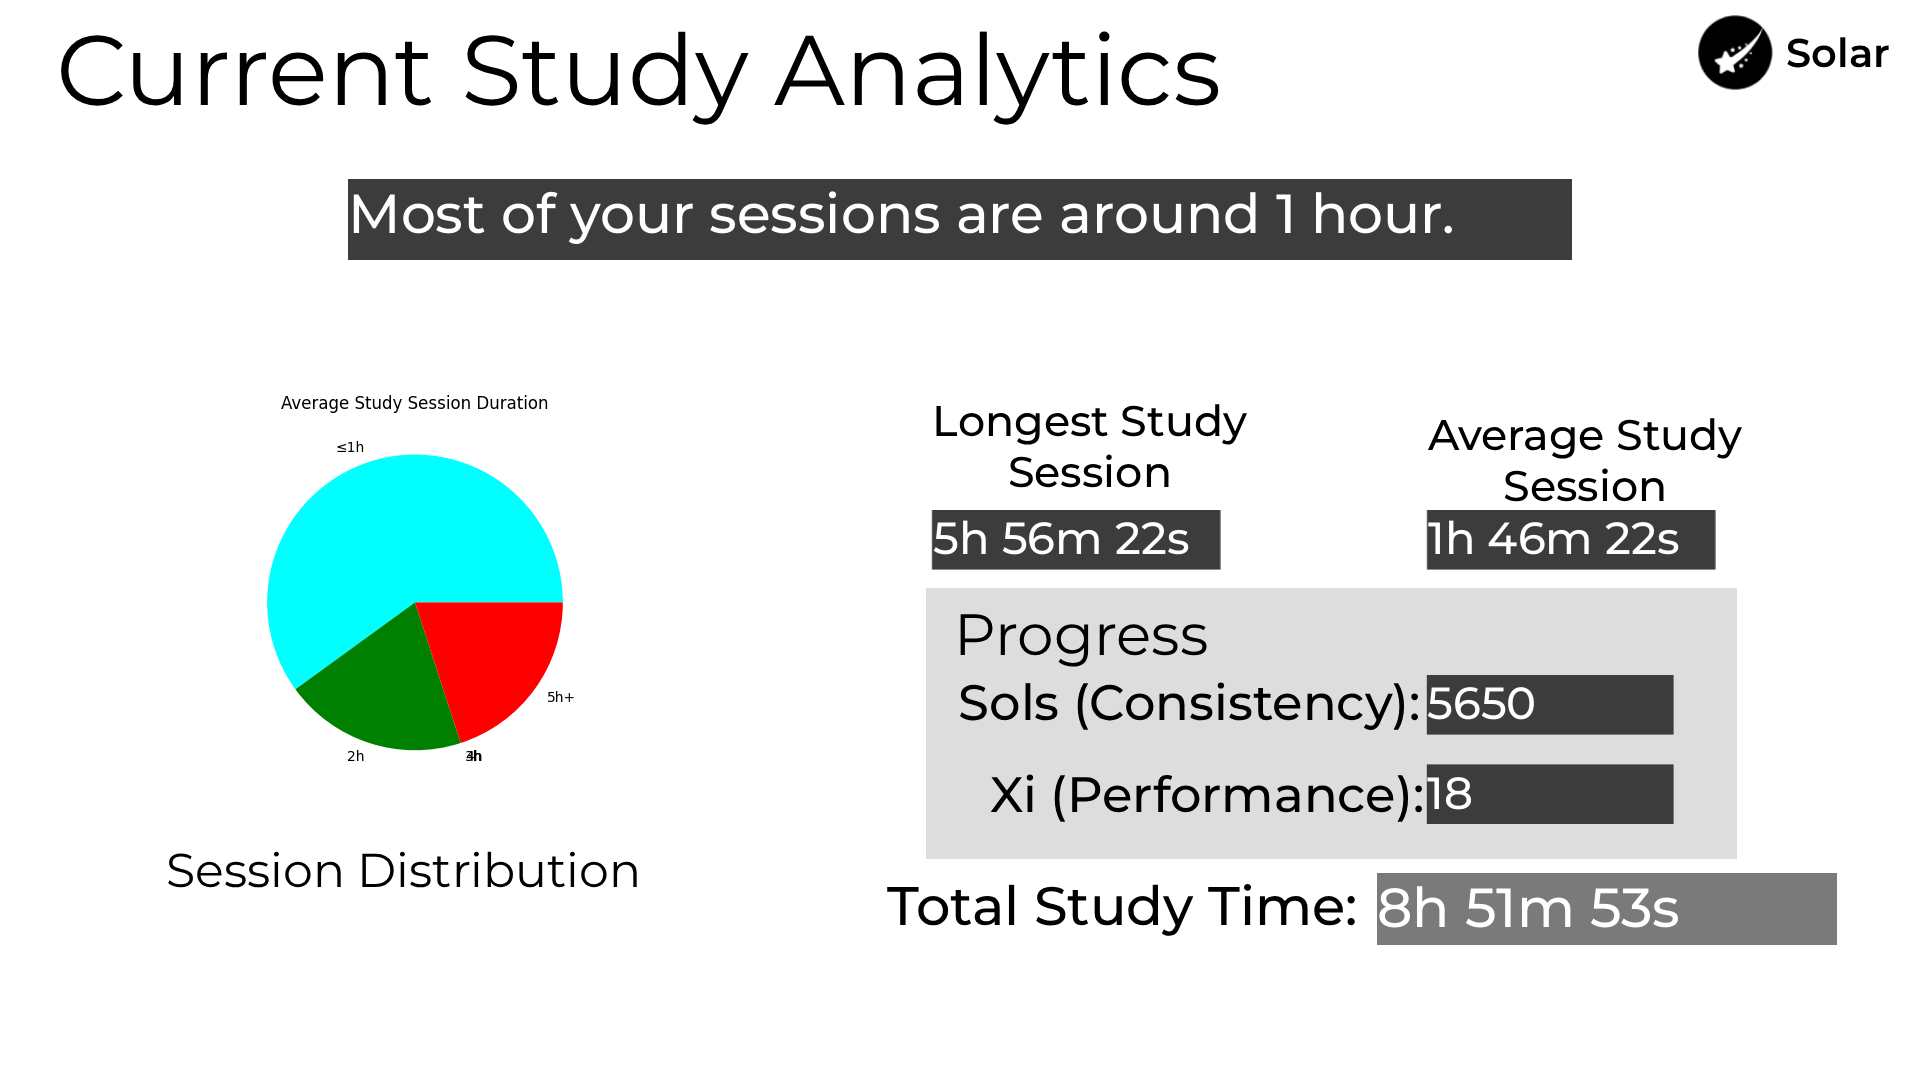
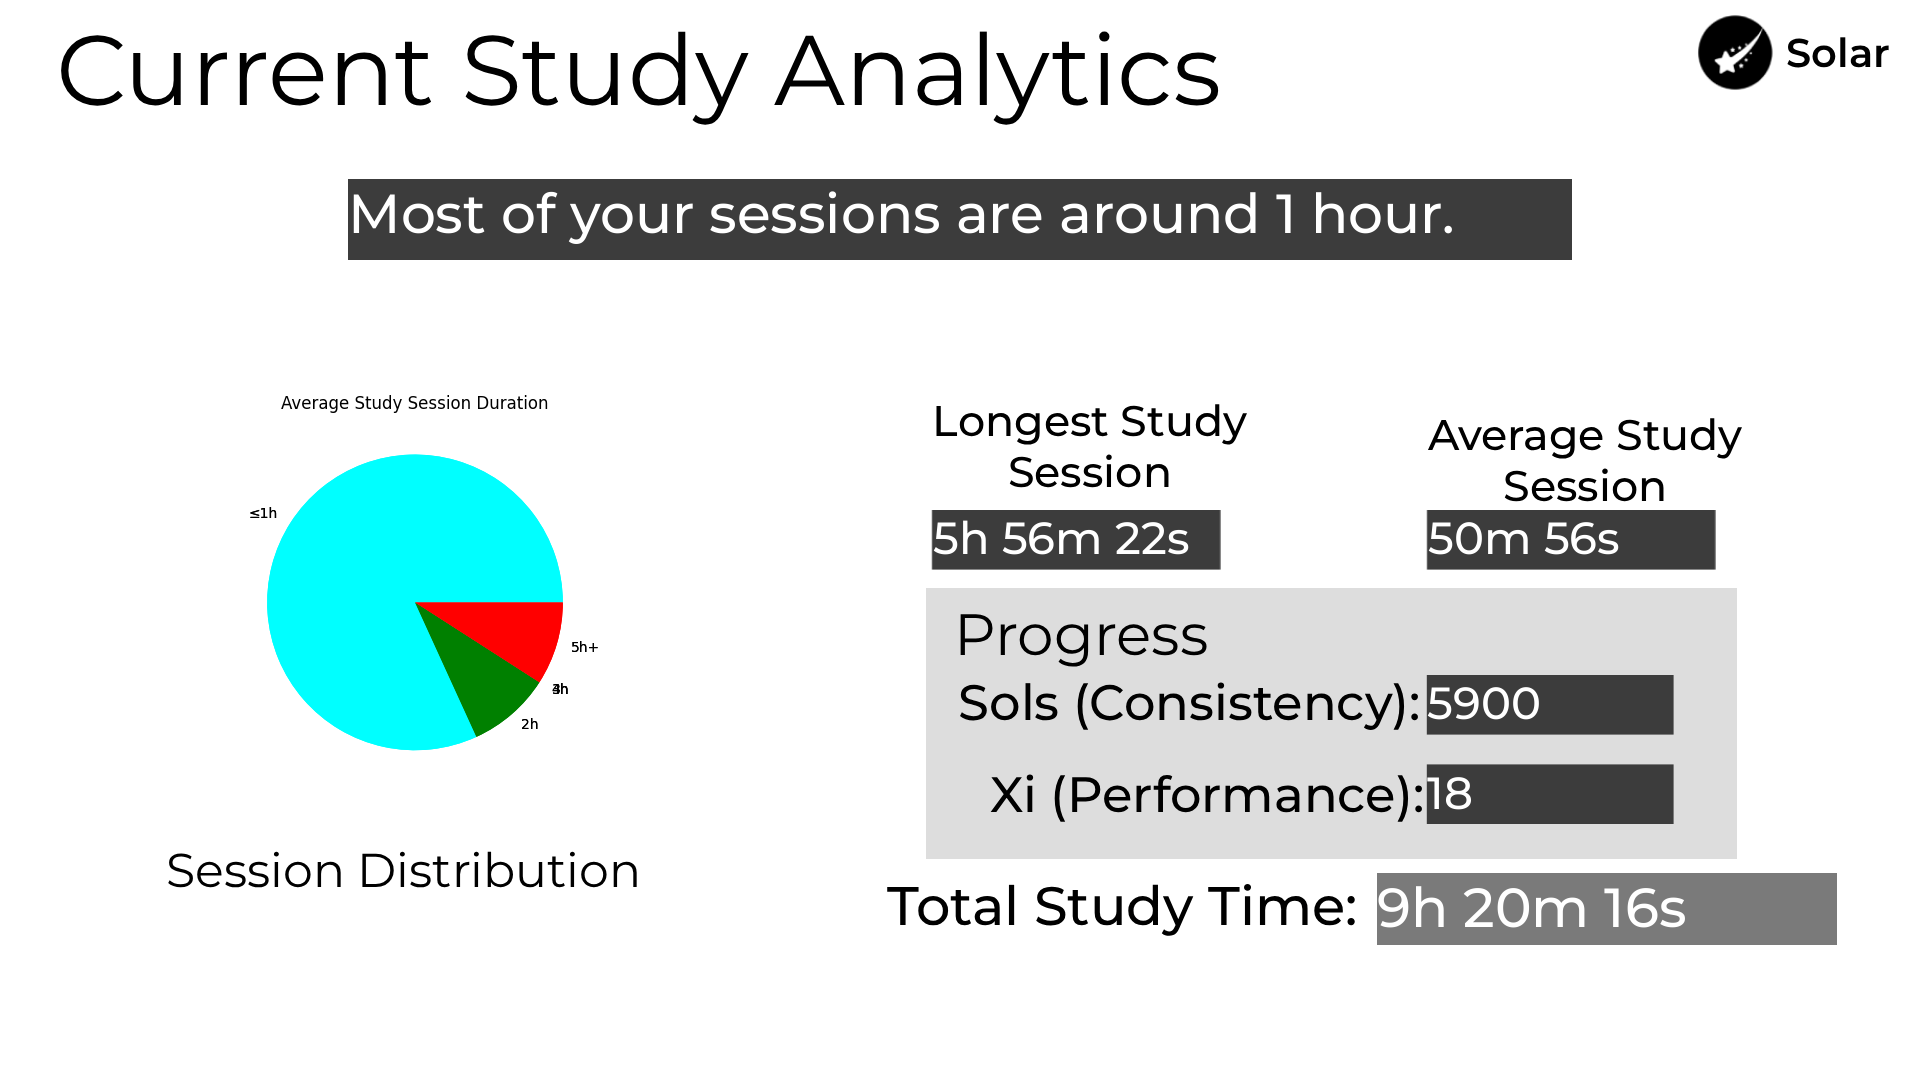
finalise the project, modified README.md

diff --git a/extensions/study.py b/extensions/study.py
@@ -46,6 +46,7 @@ class start(lightbulb.SlashCommand, name="start", description="Starts a study se
             else:
                 await ctx.respond("Invalid study type.")
                 return
+
             await ctx.respond(f"Study session started in `{mode}` mode! To stop, run `/stop`.")
 
 @loader.command
@@ -78,7 +79,7 @@ class stop(lightbulb.SlashCommand, name="stop", description="Stops a study sessi
                 return
 
             Δt = now - history[3]
-            beautified, raw = prettify(Δt)
+            beautified, raw = prettify(Δt, True)
             eco = StudyCalculate()
             sols, xi = eco.calculate_earnings(raw)
             cur.execute("UPDATE history SET end = ?, sols_acc = ?, xi_acc = ? WHERE id = ?", (now, sols, xi, history[0]))
@@ -104,7 +105,7 @@ class elapse(lightbulb.SlashCommand, name="elapse", description="Check how long 
     async def callback(self, ctx: lightbulb.Context) -> None:
         study = cur.execute("SELECT study FROM users WHERE userid = ?", (ctx.user.id,)).fetchone()
         if study is None or study[0] not in ("li", "st"):
-            await ctx.respond("You haven't start studying yet! Do so by running `/study [type]`,")
+            await ctx.respond("You haven't start studying yet! Do so by running `/start [type]`,")
         else:
             alloc = cur.execute("SELECT study_start FROM users WHERE userid = ?", (ctx.user.id,)).fetchone()
             now = int(datetime.now().timestamp())
@@ -117,10 +118,33 @@ class elapse(lightbulb.SlashCommand, name="elapse", description="Check how long 
 async def lockedInCheck(event: hikari.MessageCreateEvent) -> None:
     if event.is_bot:
         return
+    
     sc = StudyChecker()
     channel = await event.app.rest.fetch_channel(event.channel_id)
     await sc.deepcheck(event, event.author.id, channel.name)
     
+
+@loader.listener(hikari.PresenceUpdateEvent)
+async def presenceUpdateCheck(event: hikari.PresenceUpdateEvent) -> None:
+    userid = event.user_id
+    # user = event.user <---- unreliable
+
+    # print("Presence event fired, usr : ", userid)
+    if userid is None:
+        return
+    presence = event.presence
+
+    # print("status:", presence.status)
+    # print("visible_status:", presence.visible_status)
+
+    if presence.visible_status == hikari.Status.OFFLINE:
+        sc = StudyChecker()
+        usr = await event.app.rest.fetch_user(userid)
+        print(f"User offline: {usr}")
+        await sc.reboundCheck(event, userid)
+    else:
+        pass
+
 
 def load(client: lightbulb.Client):
     client.register(start)

diff --git a/functions/study_related.py b/functions/study_related.py
@@ -72,7 +72,7 @@ class StudyCalculate:
         """
         cur.execute("UPDATE users SET sols = sols + ?, xi = xi + ? WHERE userid = ?", (sols, xi, ctx.user.id))
 
-async def stop_studying(event, usrid):
+async def stop_studying(event, usrid, DM: bool):
     now = int(datetime.now().timestamp())
     cur.execute("SELECT * FROM users WHERE userid = ?", (usrid,))
     res = cur.fetchone()
@@ -102,7 +102,11 @@ async def stop_studying(event, usrid):
         dev = "Dev Mode Enabled. " if resx[2] == 1 else ""
         session = " 1.25x bonus (locked-in session). " if res[4] == 'li' else "Regular earning (standard-session). "
         embed.set_footer(f"{dev}{session}Take a rest!")
-        await event.message.respond(embed=embed)
+        if DM:
+            user = await event.app.rest.fetch_user(usrid)
+            await user.send(embed=embed)
+        else:
+            await event.message.respond(embed=embed)
         conn.commit()
 
         return embed
@@ -119,9 +123,17 @@ class StudyChecker:
             if channel_name == "study":
                 pass
             else:
-                await stop_studying(event, author_id)
+                await stop_studying(event, author_id, DM=False)
         elif pos[0] == "li":
-            await stop_studying(event, author_id)
+            await stop_studying(event, author_id, DM=False)
+        else:
+            pass # Skip checking because user is not studying.
+    
+    async def reboundCheck(self, event, usrid: int):
+        cur.execute("SELECT study FROM users WHERE userid = ?", (usrid,))
+        pos = cur.fetchone()
+        if pos[0] != "NONE":
+            await stop_studying(event, usrid, DM=True)
         else:
             pass # Skip checking because user is not studying.
 

diff --git a/main.py b/main.py
@@ -15,7 +15,7 @@ load_dotenv()
 
 DISCORD_TOKEN = os.getenv("DISCORD_TOKEN")
 
-bot = hikari.GatewayBot(DISCORD_TOKEN)
+bot = hikari.GatewayBot(DISCORD_TOKEN, intents=hikari.Intents.ALL)
 client = lightbulb.client_from_app(bot)
 
 bot.subscribe(hikari.StartingEvent, client.start)
@@ -33,6 +33,5 @@ async def on_starting(_: hikari.StartingEvent) -> None:
             print(f"Initialised extensions.{filename[:-3]}!")
 
     await client.sync_application_commands()
-
 
 bot.run()

diff --git a/README.md b/README.md
@@ -1,0 +1,124 @@
+# Solar - A Study Tracker Bot
+
+### Video Demo : click [here](https://youtu.be/LR8ksxi7WeQ)
+
+## 🧩 The problem
+
+Many students struggle to stay focused while studying, especially with distractions from social media such as Discord. Even when they attempt to focus, they might lose concentration over time. As a result, it is difficult to stay disciplined and/or track their study time efficiently.
+
+Normal people may misunderstand this as **"laziness"**, when in reality it is largely influenced by constant distractions and a lack of structured focus. However, I see it as an opportunity to help these individuals overcome these challenges.
+
+And may I present to you the alternative, **Solar**.
+
+## 💡 The Idea
+
+### So what is Solar? 
+Solar is a Discord bot that revolves around study. Study bots have been part of the Discord community for a very long time. However, they are overlooked by most.
+
+Solar aims to stand out from others with features for tracking study sessions, whereby the user starts a session and ends a session whenever they want.
+
+Speaking about focus, the bot provides two modes for tracking study sessions. The first mode is called "standard" focus. In standard focus, the main goal is that you are only allowed to chat within a specific Discord channel; in this case, the system looks for a channel named `#study`. If the user chats in other channels that aren't called `#study`, the bot will end the study session. The same goes for being offline; the user is __NOT__ allowed to be offline. The bot will flag it as, "You're done with the study, I assume". 
+
+The second focus mode is called "locked-in" focus. In this mode, it is basically the same as the standard focus, but the only catch is, you're not allowed to chat __AT ALL__.
+
+In addition to focus tracking, it includes an analytics system. To briefly explain, with the analytics system, it displays the user's study session and shows the user their typical session duration.
+
+## ⚙ Core Features
+
+The bot consists of five primary commands:
+
+### Initiate/stop sessions
+`/start [session-type]` - Starts the study session.
+Parameters: `[session-type] -> "standard" or "locked-in"`
+
+`/elapse` - Checks how long the user has been studying for.
+
+`/stop`- Wraps up the user's study session.
+
+### Others
+`/analytics [display -> Optional]` - Shows the analytics of the user. If the display is not parsed in, then it will display a basic study summary [Figure 1.1](#figures). Otherwise, it will display a fully analyzed summary [Figure 1.2](#figures). Parameters: `[display -> "Advanced" or none]`
+
+`/profile` - A simplified summary of the user's progress, displaying Sols (consistency) and Xi (performance).
+
+### Less-used commands
+
+`/settings [mode -> Optional] [bool -> Optional]` - Opens a setting menu. Solely made for me to debug code. Parameters: `[mode -> "dev mode" or none] & [bool -> Yes, no, or none]`
+
+`/rquotes` - Gives you random quotes (made with API-Ninjas).
+
+
+#### About Sols and Xi
+
+They are designed to be like Reddit's [karma](https://support.reddithelp.com/hc/en-us/articles/204511829-What-is-karma) system. It shows your dedication to studying and is mainly used to show trustworthiness.
+
+__So, what are the matters of Sols and Xi?__
+
+Sols are earned based on study duration, with 50 Sols awarded every 5 minutes of continuous studying. This is equivalent to 10 Sols per minute.
+
+Xi represents performance and is earned at a slower rate, with 1 Xi awarded every 30 minutes of studying.
+
+#### Sols calculation
+
+Sols are calculated by getting your session wrap-up time MINUS your starting time.
+
+```∆T = end_time - start_time```
+
+Where time is in seconds.
+
+> [!Note]
+> It takes 5 minutes of continuous studying to get 50 Sols (10 sols every minute).
+
+It is then parsed into a computing function that calculates how many SOLs you are awarded.
+
+#### Xi calculation
+Xi is calculated by getting your session wrap-up time MINUS your starting time.
+
+```∆T = end_time - start_time```
+
+Where time is in seconds.
+> [!Note]
+> It takes 30 minutes of continuous studying to get 1 Xi.
+
+It is then parsed into a computing function that calculates how many Xis you are awarded.
+
+#### About the forgiving system
+Some people may have studied for almost 30 minutes; this is why I introduced the Forgiving System. What this system does is basically check if the user has been studying within a 5-minute range that is within 30 minutes; that is, if the user studies at least 25 minutes, then they still get awarded with Xi.
+
+## 🧠 Design Decisions
+### Why not use Web-Application?
+Part of the reason why I chose to use Discord and not a web application isn't because I don't like frontend and backend development, but because I generally prefer Discord due to how instant it is and my familiarity with it. I have always coded a Discord bot, and I am significantly more experienced with Discord bot development compared to building web applications. Another reason why I don't use the website is because it will be a lot harder to track your studies, and with the use of Discord's channels, I am able to track things more efficiently.
+
+### Why strict session rules?
+The main, and I mean main, reason why I must make session tracking strict is because you might cheat the system by just starting a study session, going offline for a few days, coming back, and stopping the study and flexing to your friends. Without strict rules, users may be able to exploit the system by leaving sessions running without actively studying. The enforced conditions ensure that recorded study time reflects genuine effort. This may sound ridiculous for a Discord bot to be this strict, but what I learned from CS50x is that you don't learn because someone always helped you; instead, you learn because you struggle.
+
+### Why Sols and Xi instead of currency?
+Part of it is because I like to use Reddit for general meme lookups and basically follow up on the current world. And no, I do NOT use X (formerly Twitter). Reddit has this karma system, which I really admired. It shows dedication of the user to the community. I basically borrowed the idea of karma and built Sols and Xi.
+
+## 🧱 Technical Overview
+In this project, I use Python as the main source of powerhouse. It is easy, and very powerful to use.
+
+As you already saw in my code (I hope so), I use hikari as an alternative to discord.py due to its flexibility and event-driven design.
+
+For database sakes (to store study sessions and more), I use sqlite3 that CS50x uses. The only difference, however, is I use the ACTUAL sqlite3 and not the CS50x's own implementation.
+
+For analytics, I use matplotlib, numpy, and pillow. Matplotlib and numpy works together to create the graph visualization (as seen in the [Figure 1.1 and 1.2](#figures)), and pillow basically pastes that into the background template that is made externally via photoshop (as a png file).
+
+## ⚠ Challenges & Limitations
+This project was developed with a limited timeframe of 11 days. Due to time constraints, I was unable to implement more advanced features such as an interactive dashboard system. As a result, this project was simplified to focus on delivering a smaller, but more concentrated set of well-polished, feature-rich commands.
+
+## 🚀 Future Improvements
+If I have enough time to improve the bot, this is what I would improve: 
+
+- [ ] Add a web-based dashboard for visualization
+- [ ] Add and expand the rewarding system
+- [ ] Improve study-related commands' session logic.
+
+## 🎯 Conclusion
+Throughout this project, I developed a fully-functional Discord bot with data visualization. More significantly, it helps me reinforce the knowledge of designing applications with a clear structure, purpose, and most importantly, the importance of user experience.
+
+## Figures
+Figure 1.1
+![Figure 1.1](/extras/Figure%201.1.png)
+
+Figure 1.2
+![Figure 1.2](/extras/Figure%201.2.png)
